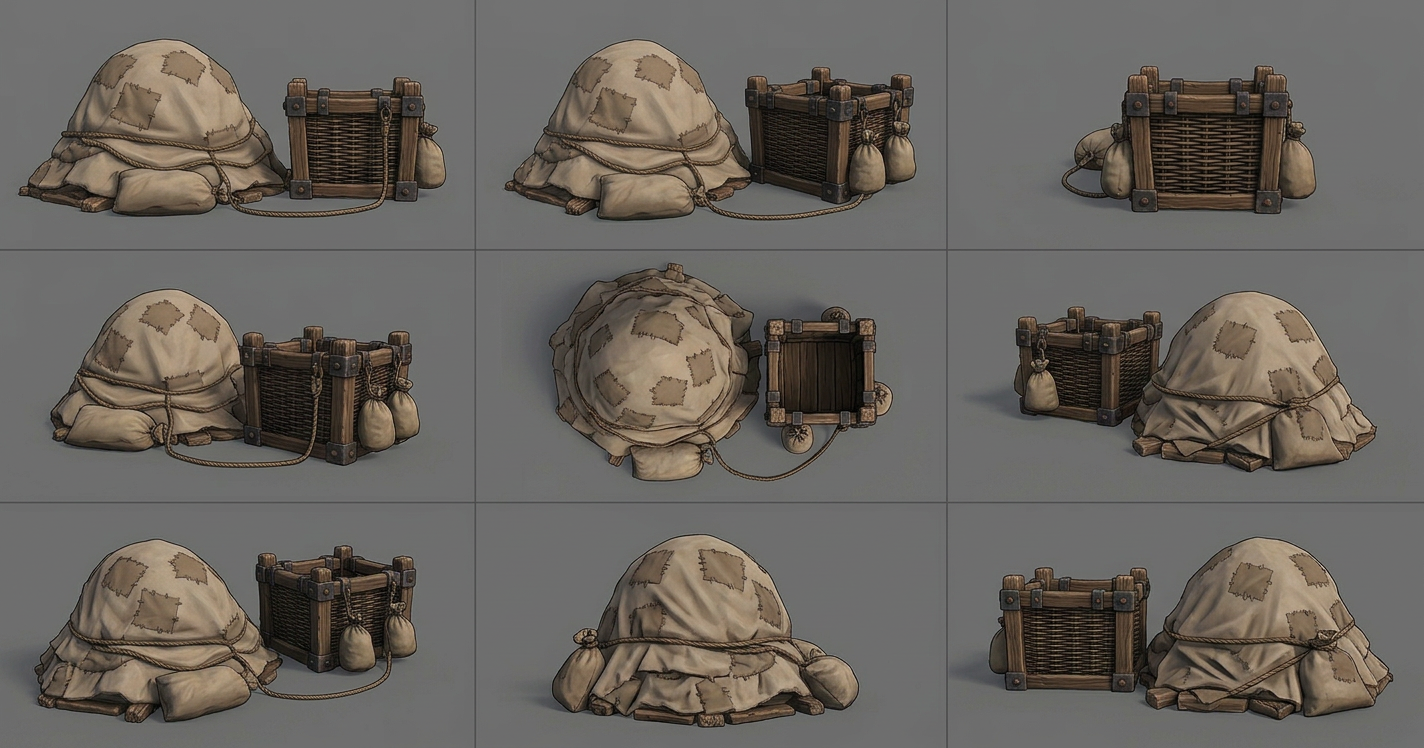
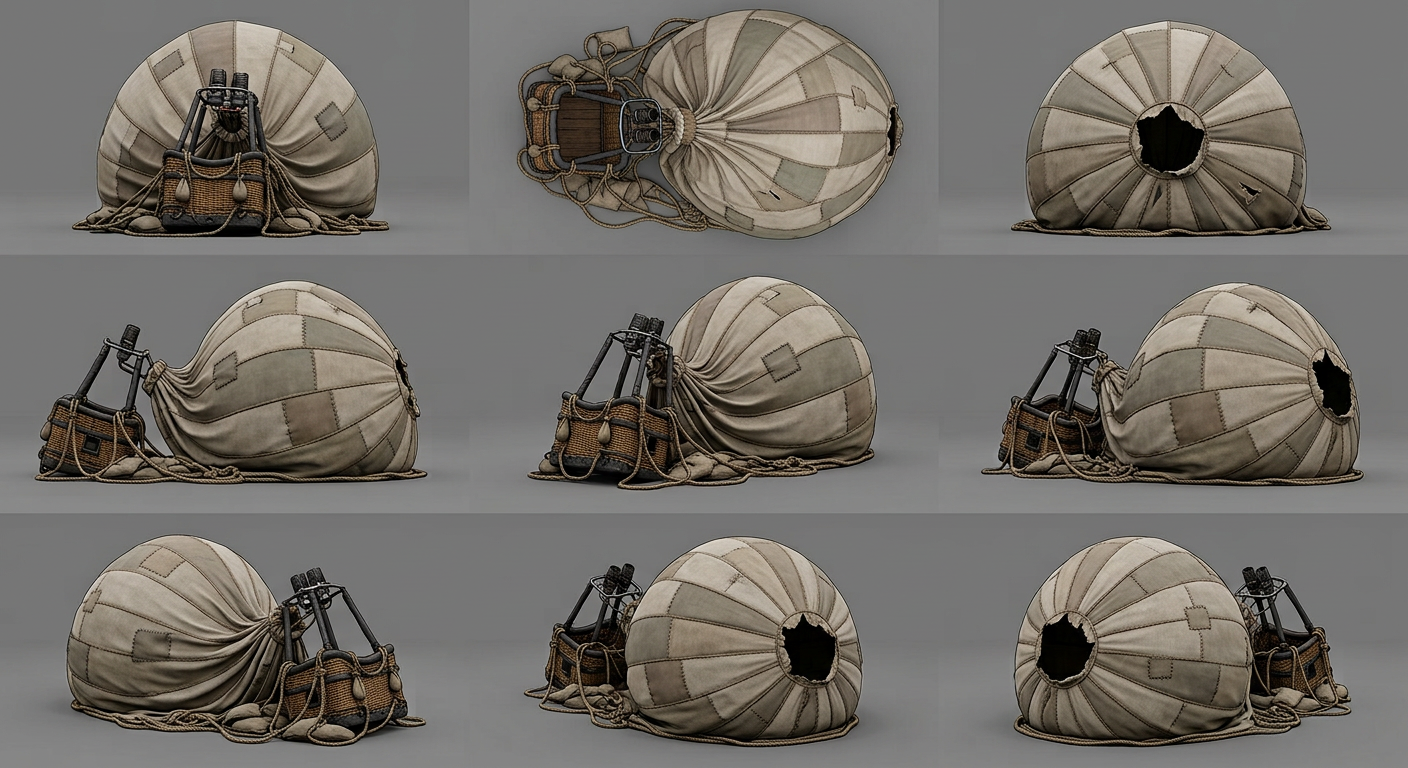
Add industrial and VFX support references

diff --git a/art-src/meshy/hf-refs/README.md b/art-src/meshy/hf-refs/README.md
@@ -185,7 +185,7 @@ All coverage assets are governed by [`docs/ISLAND_DENSE_COVERAGE_STANDARD.md`](.
 |---|---|---|---|---|
 | 98 | `goblin-lighthouse` | Crooked coastal lighthouse | pass | Strong tower silhouette with external stairs, lantern room, radial and underside coverage. |
 | 99 | `shipwreck-hull` | Broken sailing hull | pass | Stable broadside/bow/stern/interior identity and connected LOD-safe ribs. |
-| 100 | `crashed-goblin-balloon` | Deflated balloon wreck | **weak—regenerate** | Basket is readable, but the envelope currently resembles a rock/sack more than patched balloon fabric. |
+| 100 | `crashed-goblin-balloon` | Deflated balloon wreck | pass | Regenerated with unmistakable radial canvas gores, crown opening, gathered neck, basket and rigging. |
 | 101 | `goblin-marble-shrine` | Marble-idol shrine | pass | Strong stepped altar, sphere and paired brazier hierarchy with useful top view. |
 | 102 | `armored-sheep-statue` | Armored sheep monument | pass | Stable heroic sheep silhouette and actual monument plinth; armor should be clarified during cleanup. |
 | 103 | `kraken-tentacle-arch` | Three-tentacle arch | pass | Broad LOD-safe curves, large suckers and race-clear negative space. |
@@ -193,6 +193,22 @@ All coverage assets are governed by [`docs/ISLAND_DENSE_COVERAGE_STANDARD.md`](.
 | 105 | `dock-supply-cluster` | Crates, barrels, rope and anchor | pass | Dense asymmetrical utility cluster with strong top and perimeter silhouettes. |
 | 106 | `goblin-ore-cart` | Loaded mine cart | pass | Stable hopper, wheel, axle and ore identity from all required views. |
 | 107 | `modular-mine-rail-segment` | Straight mine rail | pass | Exact repeatable form with open sleepers, approach/end and top/underside coverage. |
+
+## Batch 12 — industrial, settlement, track-detail, and VFX support
+
+![Batch 12 industrial/VFX contact sheet](./review/batch-12-industrial-vfx-contact-sheet.jpg)
+
+| # | ID | Subject | Status | Review notes |
+|---|---|---|---|---|
+| 108 | `goblin-foundry-hut` | Compact foundry hut | pass | Stable workshop/furnace mass, chimney, open front, roof and underside coverage. |
+| 109 | `industrial-chimney-pipe-cluster` | Chimney and pipe cluster | pass | Thick connected pipe routing and broad stacks remain readable through LOD. |
+| 110 | `work-platform-module` | Raised work platform | pass | Strong modular deck, broad stair, cross-bracing and useful top/underside views. |
+| 111 | `dock-pier-segment` | Modular pier | pass | Exact deck connectors, stout piles, side/underside bracing and bollard rhythm. |
+| 112 | `patched-market-awning` | Cloth work awning | pass | Broad connected canvas, clear four-post silhouette and stable patch layout. |
+| 113 | `goblin-tool-rack` | Connected tool rack | pass | Thick LOD-safe tool silhouettes, stable rack and complete radial coverage. |
+| 114 | `track-drainage-grate` | Road-flush grate | pass | Broad bars, frame, catch channel and exact top/profile/underside definition. |
+| 115 | `track-boost-inlay` | Boost-pad inlay | pass | Clean flush frame, three broad chevrons and separate dim emissive channels. |
+| 116 | `waterfall-sheet-mesh` | Shader-ready waterfall ribbon | pass with shader constraint | Geometry provides only broad flow silhouette; opacity, scrolling water, foam and motion remain shader/VFX work. |
 
 ## Shared review result
 

diff --git a/docs/ISLAND_ASSET_SCALE_AND_TRIANGLE_BUDGET.md b/docs/ISLAND_ASSET_SCALE_AND_TRIANGLE_BUDGET.md
@@ -339,7 +339,34 @@ Family dimensions below describe the complete review-kit envelope. Runtime chunk
 
 ---
 
-## 14. Texture density by class
+## 14. Batch 12 — industrial, settlement, track-detail, and VFX support
+
+| # | Asset | Target size W × D × H | Relative scale and use | Suggested LOD0 triangles | LOD1 / LOD2 |
+|---|---|---:|---|---:|---:|
+| 108 | Goblin foundry hut | `10 × 8 × 8 m` | Slightly larger/taller than workshop; one-road-width industrial building | 26,000 | 13,000 / 4,500 |
+| 109 | Chimney/pipe cluster | `5 × 4 × 9 m` | Narrow industrial vertical accent; below watchtower height | 14,000 | 7,000 / 2,200 + impostor |
+| 110 | Work platform | `8 × 6 × 4 m` | One broad modular deck; lower than workshop doorway-plus-roof | 14,000 | 7,000 / 2,500 |
+| 111 | Dock pier segment | `6 × 12 × 5 m` | Two-lane deck width and one road-module length | 16,000 | 8,000 / 2,800 |
+| 112 | Patched market awning | `6 × 4 × 4 m` | Two-lane-width shelter; below shack roof | 10,000 | 5,000 / 1,600 |
+| 113 | Goblin tool rack | `3 × 1 × 2.5 m` | Door-height close prop; compact workshop dressing | 8,000 | 4,000 / 1,200 |
+| 114 | Track drainage grate | `3 × 1 × 0.25 m` | One lane wide and road-flush | 2,500 | 1,200 / 400 |
+| 115 | Track boost inlay | `6 × 3 × 0.20 m` | Two lanes long by one lane wide; road-flush | 4,000 | 2,000 / 650 |
+| 116 | Waterfall ribbon mesh | `6 × 1 × 12 m` | Two lanes wide, cliff-module height | 800 | 400 / 120 or shader proxy |
+
+### Industrial and VFX-support notes
+
+- Foundry lights, fire, smoke, steam and glow remain separate runtime effects/material channels.
+- Pipe interiors and hidden building faces are removed; only visible routing and silhouette receive geometry.
+- Dock piles and platform supports require underside LOD only when visible from lower routes.
+- Cloth awning folds simplify aggressively after LOD0; small fabric weave stays in Normal/Roughness.
+- Tool silhouettes remain broad at LOD0, then bake into a rack card/atlas for distance.
+- Drainage grate openings may collapse to Normal/Opacity detail at distant LOD.
+- Boost-pad emissive is separate and does not bake glow into BaseColor.
+- Waterfall mesh remains low-poly; scrolling normal, opacity, foam, refraction and spray supply fidelity.
+
+---
+
+## 15. Texture density by class
 
 | Asset class | Master texture | Target texel density | Notes |
 |---|---:|---:|---|
@@ -355,7 +382,7 @@ Every texture set requires an authored roughness map. Texture memory, material c
 
 ---
 
-## 15. Acceptance and variance
+## 16. Acceptance and variance
 
 Every future reference asset must receive a row in this registry with bounding dimensions, a comparison to existing assets, an LOD0 triangle ceiling, LOD reductions, and texture class before its generated model is accepted.
 
